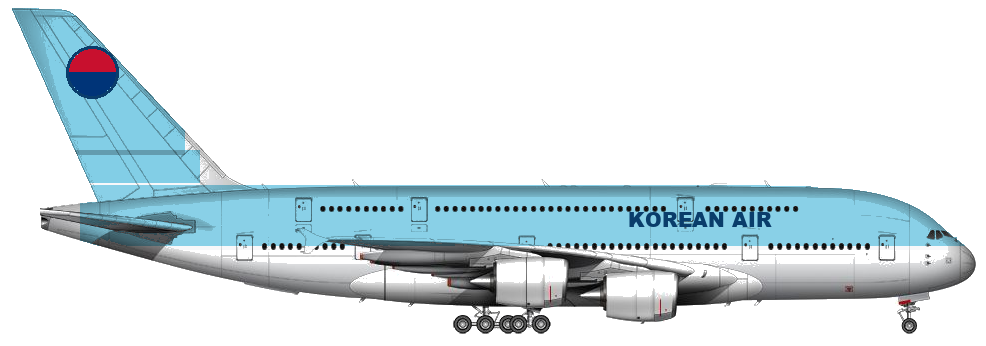
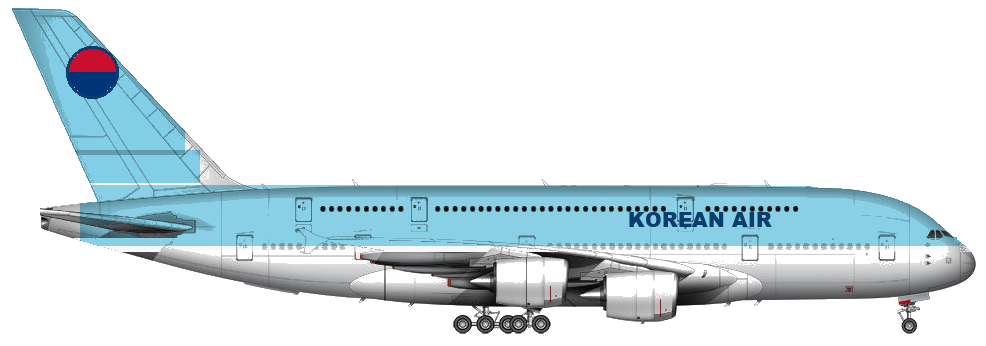
Fix the A380 BA tail and remove the black belly line.
Reuse the A320 Chatham ribbons at A380 size, and fade the lower-deck window rail that smeared into a black line.

Changed region(s): [[0.2434, 0.6936, 0.8824, 0.7514], [0.0913, 0.6647, 0.1826, 0.7514]]

diff --git a/flight-simulator-2026/js/game.js b/flight-simulator-2026/js/game.js
@@ -72,7 +72,7 @@ class Game {
       const load = (file, key) => {
         const img = new Image();
         img.onload = () => { pack[key] = img; };
-        img.src = `${base}${file}?v=liv12`;
+        img.src = `${base}${file}?v=liv13`;
       };
       load(`${prefix}-gearup.png`, "up");
       load(`${prefix}-geardown.png`, "down");
@@ -97,7 +97,7 @@ class Game {
       const load = (file, key) => {
         const img = new Image();
         img.onload = () => { pack[key] = img; };
-        img.src = `${base}${file}?v=liv12`;
+        img.src = `${base}${file}?v=liv13`;
       };
       load(`${prefix}-gearup.png`, "up");
       load(`${prefix}-geardown.png`, "down");

diff --git a/flight-simulator-2026/index.html b/flight-simulator-2026/index.html
@@ -153,7 +153,7 @@
   <script src="js/input.js?v=hump38"></script>
   <script src="js/hud.js?v=hump38"></script>
   <script src="js/loading.js?v=hump38"></script>
-  <script src="js/game.js?v=a380liv3"></script>
+  <script src="js/game.js?v=a380liv4"></script>
   <script src="js/mobile.js?v=hump38"></script>
   <script src="js/menu.js?v=free1"></script>
   <script src="js/main.js"></script>
